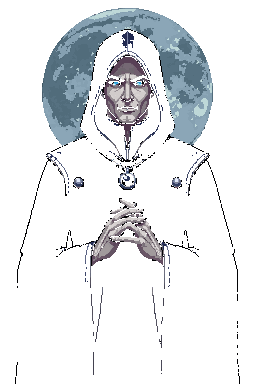
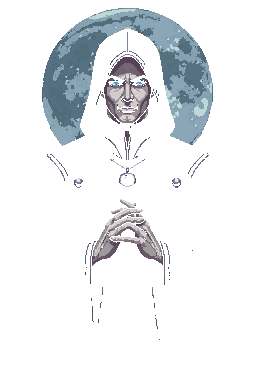
fix: Portraits absolute positioned (no content overlap), aggressive bg removal

diff --git a/app/page.tsx b/app/page.tsx
@@ -1672,7 +1672,7 @@ export default function Dashboard() {
                             <div className="relative flex items-end" style={{ maxWidth: 820, width: "100%" }} onClick={e => e.stopPropagation()}>
 
                               {/* ── Seraine Portrait (hidden on small screens) ── */}
-                              <div className="hidden md:flex items-end" style={{ marginRight: -44, width: 220, flexShrink: 0, pointerEvents: "none", zIndex: 10, background: "none", border: "none", padding: 0 }}>
+                              <div className="hidden md:block" style={{ position: "absolute", left: -160, top: "50%", transform: "translateY(-50%)", width: 180, pointerEvents: "none", zIndex: 10 }}>
                                 <img src="/images/portraits/npc-seraine.png" alt="Seraine Ashwell" width={256} height={384} style={{ imageRendering: "pixelated", width: "100%", height: "auto", display: "block", filter: newRitualBloodPact ? "drop-shadow(0 0 22px rgba(239,68,68,0.65))" : "drop-shadow(0 0 22px rgba(245,158,11,0.55))", transition: "filter 0.5s ease" }} />
                               </div>
 

diff --git a/components/QuestBoard.tsx b/components/QuestBoard.tsx
@@ -593,7 +593,7 @@ export function AntiRitualePanel({ playerName, reviewApiKey }: { playerName: str
               </div>
 
               {/* ── Vael Portrait (hidden on small screens) ── */}
-              <div className="hidden md:flex items-end" style={{ marginLeft: -44, width: 220, flexShrink: 0, pointerEvents: "none", zIndex: 10, background: "none", border: "none", padding: 0 }}>
+              <div className="hidden md:block" style={{ position: "absolute", right: -160, top: "50%", transform: "translateY(-50%)", width: 180, pointerEvents: "none", zIndex: 10 }}>
                 <img src="/images/portraits/npc-vael.png" alt="Vael the Silent" width={256} height={384} style={{ imageRendering: "pixelated", width: "100%", height: "auto", display: "block", filter: newVowBloodPact ? "drop-shadow(0 0 22px rgba(99,102,241,0.8))" : "drop-shadow(0 0 18px rgba(99,102,241,0.45))", transition: "filter 0.5s ease" }} />
               </div>
             </div>
